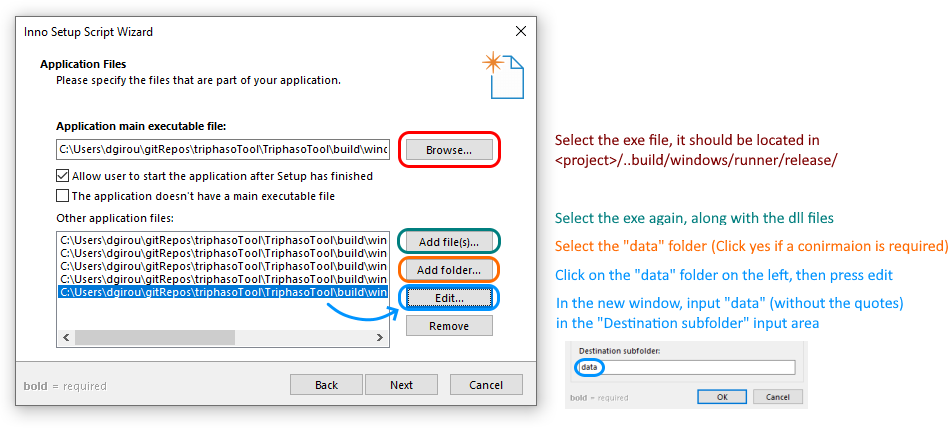
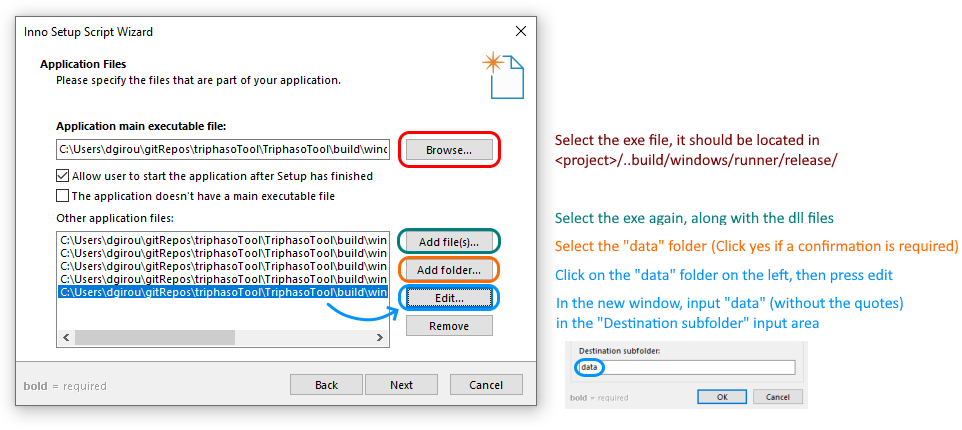
Fixed several typos in the readme

diff --git a/README.md b/README.md
@@ -25,7 +25,7 @@ If the converter cable is longer than 1 meter, you will need to push the yellow 
 * Follow the instructions here:
 >https://docs.flutter.dev/get-started/install/windows
 
-To make flutter work best, you'll need visual studio code and android studio on yor computer.
+To make flutter work best, you'll need visual studio code and android studio on your computer.
 
 ### Architecture Code
 *main.dart* contains the main code used to launch the application is in /lib. The main page is composed of a banner with a drawer and a body part.   
@@ -52,7 +52,7 @@ The following procedure has to be done *once* for a computer, a script file is t
 
 Install Inno and open it, then select the option *“create a new script file using the script wizard”*.
 
-![The Inno setup software welcome screen](https://protocoderspoint.com/wp-content/uploads/2022/02/inno-setup-create-image-2-min.jpg?ezimgfmt=ng:webp/ngcb20 "The welcome screen")
+![The Inno setup software welcome screen](images/innoSetup1.png?raw=true "The welcome screen")
 
 If this window doesn't show, use *File -> New..* (or Ctrl+N)
 
